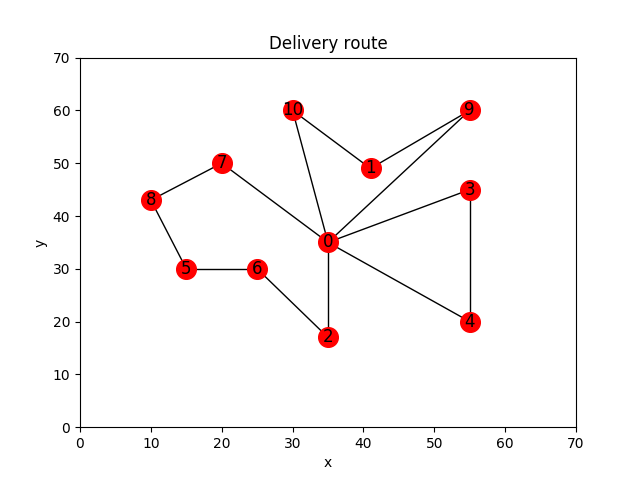
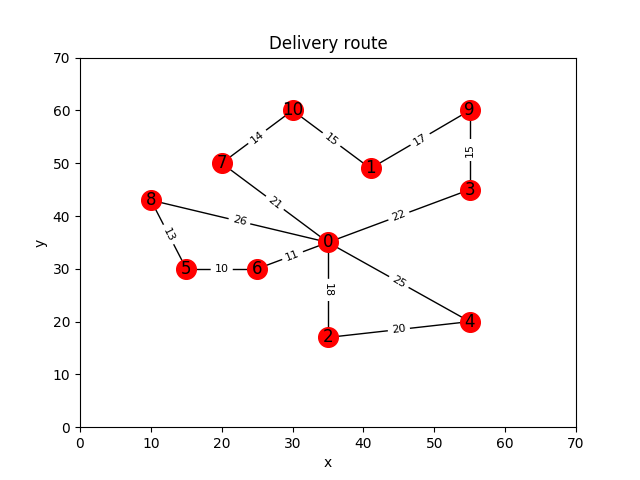
<main.py> mainのプログラム内に3次元リスト変換関数やグラフプロットを導入 また個体情報としてエッジマトリクスではなくエッジリストを持たせるように変更 巡回セールスマンのような解まで導出できるように

diff --git a/main.py b/main.py
@@ -15,11 +15,13 @@ import random
 from decimal import Decimal
 import numpy as np
 import pandas as pd
+import networkx as nx
+import matplotlib.pyplot as plt
 
 # 遺伝子集団の長さ
-MAX_GENOM_LIST = 30
+MAX_GENOM_LIST = 100
 # 各両親から生成される子個体の数
-MAX_CHILDREN = 10
+MAX_CHILDREN = 20
 # # 遺伝子選択数
 # SELECT_GENOM = 20
 # # 個体突然変異確率
@@ -27,9 +29,9 @@ MAX_CHILDREN = 10
 # # 遺伝子突然変異確率
 # GENOM_MUTATION = 0.1
 # 繰り返す世代数
-MAX_GENERATION = 1
+MAX_GENERATION = 100
 # 使用できる車両数
-VEHICLE = 3
+VEHICLE = 4
 
 
 
@@ -99,18 +101,18 @@ def createGenom(num_shelter, m):
 @OUTPUT:
     x : 移動するエッジの行列
 """
-def createEdgeMatrix(genom):
+def createEdgeSet(genom):
     # 配送順序の配列を変数genomにコピー
     # genom = ga.getGenom()
     total_cost = 0
     route_flag = False
-    # どの避難所間を通ったかを示す2次元配列を0で初期化
-    x = np.zeros((num_shelter, num_shelter), int) #小数点以下を加える→float型
+    E = []
+
     for i in range(len(genom)):
         # ルート区切り番号だった場合
         if genom[i] > num_shelter - 1: # >10
             if route_flag == True:
-                x[genom[i-1]][0] = 1
+                E.append([genom[i-1], 0])
                 # print("{}→{}".format(genom[i-1], 0))
             route_flag = False
             # print("_{}_区切り".format(genom[i]))
@@ -119,25 +121,80 @@ def createEdgeMatrix(genom):
             # 現在参照している避難所番号の前が区切り番号だった，
             # もしくは遺伝子の最初を参照している場合
             if route_flag == False:
-                x[0][genom[i]] = 1
+                E.append([0, genom[i]])
                 route_flag = True
                 # print("{}→{}".format(0, genom[i]))
             else : # フラグがTrue，つまり経路続行
-                x[genom[i-1]][genom[i]] = 1
+                E.append([genom[i-1], genom[i]])
                 # print("{}→{}".format(genom[i-1], genom[i]))
     # 遺伝子の最後の番号が区切り番号でない場合，
     if route_flag == True:
-        x[genom[i]][0] = 1
+        E.append([genom[i], 0])
         # print("{}→{}".format(genom[i], 0))
 
     #総移動コストの計算
-    for i in range(num_shelter):
-        for j in range(num_shelter):
-            total_cost += cost[i][j] * x[i][j]
+    for e in E:
+        total_cost += cost[e[0]][e[1]]
 
     # print("総移動コスト:{}".format(total_cost))
-    # 総移動コストと，移動エッジ行列を返す
-    return x, total_cost
+    # 移動エッジ行列と，総移動コストを返す
+    return E, total_cost
+
+
+"""
+2次元のエッジリストから，各閉路毎にエッジを持つ3次元リストに変換する
+@INPUT:
+    route: エッジの２次元リスト
+@OUTPUT:
+    Path: ルート情報を含むエッジの3次元リスト
+"""
+def routeToPath(route):
+    route = sorted(route)
+    Path = []
+    R = []
+    v_e_1 = 0
+
+    while(len(route)):
+        e = route[0]
+        find_flag = False
+        heiro = False
+        # エッジ端のどちらかに0を含むか
+        if e[0] == 0 or e[1] == 0:
+            R.append(e)
+            route.remove(e)
+            # 0じゃない方をv_eにセット
+            v_e = e[1] if e[0] == 0 else e[0]
+        else: # 0を含まない閉路を発見
+            R.append(e)
+            route.remove(e)
+            v_e = e[1]
+            v_e_1 = e[0]
+            heiro = True
+
+        while(not(find_flag)):
+            # v_eを含むエッジをroute内から探しeにセット
+            e = random.choice(list(filter(lambda x: v_e in x, route)))
+            R.append(e)
+            route.remove(e)
+
+            # eの端点のv_eでない方を新たにv_eとする
+            v_e = e[0] if v_e == e[1] else e[1]
+            # print("次の端点:{}".format(v_e))
+
+            # 次の端点が0だった場合
+            if(v_e == 0):
+                Path.append(R)
+                R = []
+                find_flag = True
+            # 閉路探索中に最初のノードを発見した場合
+            if(heiro == True and v_e == v_e_1):
+                Path.append(R)
+                v_e_1 = 0
+                R=[]
+                find_flag = True
+    # print(Path)
+    return(Path)
+
 
 """
 【家族内淘汰】
@@ -224,7 +281,7 @@ EAXのステップ1と2を処理する関数
     P_B : 親BのgenomClass
     ※それぞれ.getGenom() .getEdge()で遺伝子情報とエッジ情報を取得
 @OUTPUT:
-
+    Child: 子解
 """
 def preEAX(P_A, P_B):
     E_A = [] #親Aのエッジを格納するリスト
@@ -301,12 +358,98 @@ def preEAX(P_A, P_B):
                 R_A = sorted([x for x in R_A if (x and x in G_AB)])
                 ABflag = True
                 print("C:{}".format(C))
-    return C # AB-cycleのリストを返す
+    print("AB-cycle:{}".format(C))
+    return C
 
 
 def edgeAssemblyCrossover():
     pass
 
+
+
+"""
+グラフのリストを作成する
+@INPUT:
+    None
+@OUTPUT:
+    X:
+    Y:
+    N:
+    pos:
+    G:
+"""
+def createGraphList():
+    X = []
+    Y = []
+    N = []
+    G = nx.Graph()
+    pos = {}  #ノードの位置情報格納
+
+    # # デポ以外の座標を代入
+    # for i in range(num_shelter):
+    #     X.append(df.ix[i].x)
+    #     Y.append(df.ix[i].y)
+
+    # ノード番号とノードの座標を格納
+    for i in range(num_shelter):
+        N.append(i)
+        pos[i] = (df.ix[i].x, df.ix[i].y)
+
+    return(X, Y, N, pos, G)
+
+"""
+グラフをプロットする
+"""
+def graphPlot(G, N, edgeList):
+    E = []
+    edge_labels = {}
+    sum_cost = 0
+    labels = {}
+
+
+    for e in edgeList:
+        E.append(e)
+        edge_labels[(e[0], e[1])] = cost[e[0]][e[1]]
+
+    # for edge in e:
+    #     for i, node in enumerate(edge):
+    #         if i == 0:
+    #             E.append([0, node])
+    #             edge_labels[(0, node)] = cost[0][node]
+    #             pre_node = node
+    #             if len(edge) == 1:
+    #                 E.append([node, 0])
+    #                 edge_labels[(node, 0)] = cost[node][0]
+    #         else:
+    #             E.append([pre_node, node])
+    #             edge_labels[(pre_node, node)] = cost[pre_node][node]
+    #             pre_node = node
+    #             if i == len(edge)-1:
+    #                 E.append([node, 0])
+    #                 edge_labels[(node, 0)] = cost[node][0]
+
+    for i in range(num_shelter):
+        # labels[i] = df.ix[i].d
+        labels[i] = i
+
+    G.add_nodes_from(N)
+    G.add_edges_from(E)
+    nx.draw_networkx(G, pos, with_labels=False, node_color='r', node_size=80) # デフォルト200
+    nx.draw_networkx_labels(G, pos, labels, font_size=6) # デフォルト12
+    nx.draw_networkx_edge_labels(G, pos, edge_labels=edge_labels, font_size=6) # デフォルト8
+
+    plt.legend()
+    plt.xlabel("x")
+    plt.ylabel("y")
+    plt.xlim(0, 70)
+    plt.ylim(0, 70)
+    # plt.axis('off')
+    plt.title('Delivery route')
+    plt.savefig("./output/" + filename +".png")  # save as png
+    # plt.grid()
+    plt.show()
+
+    return(0)
 
 
 if __name__ == '__main__':
@@ -315,7 +458,7 @@ if __name__ == '__main__':
     # 引数[0]:ファイルパス，[1]:ファイル名
     df = createDataFrame("./data/", filename)
     num_shelter = len(df.index)
-    # num_shelter = 11
+    num_shelter = 31
     result_df = pd.DataFrame(index=[], columns=['世代', '総移動コスト'])
 
     # 各避難所間の移動コスト行列を生成する
@@ -338,8 +481,8 @@ if __name__ == '__main__':
 
         # 現行の集団中の個体全てのエッジ情報をgenomClassに保存
         for i in range(MAX_GENOM_LIST):
-            x, total_cost = createEdgeMatrix(current_generation_individual_group[i].getGenom())
-            current_generation_individual_group[i].setEdge(x)
+            EdgeSet, total_cost = createEdgeSet(current_generation_individual_group[i].getGenom())
+            current_generation_individual_group[i].setEdge(EdgeSet)
             current_generation_individual_group[i].setEvaluation(total_cost)
 
         for i in range(MAX_GENOM_LIST):
@@ -352,15 +495,24 @@ if __name__ == '__main__':
                 P_B = current_generation_individual_group[order[0]]
 
 
+            # 子解を代入するリスト
+            c = []
+            c_cost = []
+            """
+            交叉：EAX
+            """
+            # C = preEAX(P_A, P_B)
+            # for j in range(MAX_CHILDREN):
+            #     c.append(edgeAssemblyCrossover(C))
+
+
             """
             orderCrossoverにてプログラム全体の処理確認
             """
-            c = []
-            c_cost = []
             # 各両親に対してMAX_CHILDRENの数だけ子個体を生成する
             for j in range(MAX_CHILDREN):
                 c.append(orderCrossover(P_A, P_B))
-                a, b = createEdgeMatrix(c[j]) # bがコスト
+                a, b = createEdgeSet(c[j]) # bがコスト
                 c_cost.append(b)
 
             # 現在の親ペアの子の中で一番コストの低い個体が親Aよりも
@@ -400,6 +552,7 @@ if __name__ == '__main__':
 
         print("====第{}世代====".format(count_))
         print("最も優れた個体の総移動コスト:{}".format(min_))
+        # break
         # for i in range(MAX_GENOM_LIST):
         #     print("遺伝子<{}>:{}".format(i + 1, current_generation_individual_group[i].getEvaluation()))
 
@@ -407,4 +560,8 @@ if __name__ == '__main__':
     print(result_df)
     print("最も優れた個体:{}".format(current_generation_individual_group[min_idx].getGenom()))
     print("最も優れた個体の総移動コスト:{}".format(min_))
+
+
+    X, Y, N, pos, G = createGraphList()  #グラフ描画準備
+    graphPlot(G, N, current_generation_individual_group[min_idx].getEdge())
     result_df.to_csv("./output/" + filename + "_result.csv", index=False)
